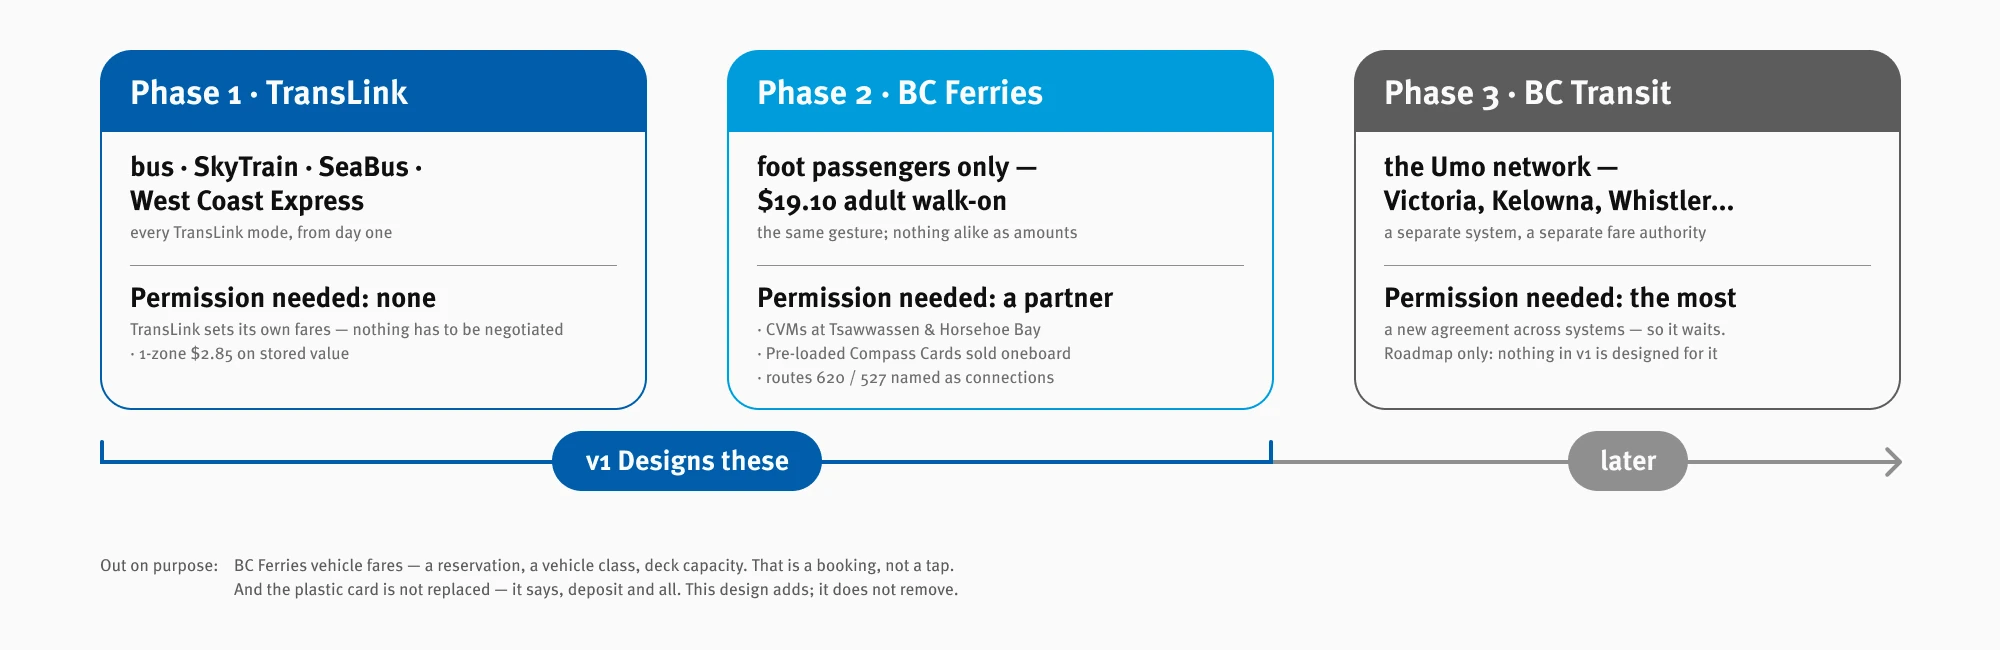
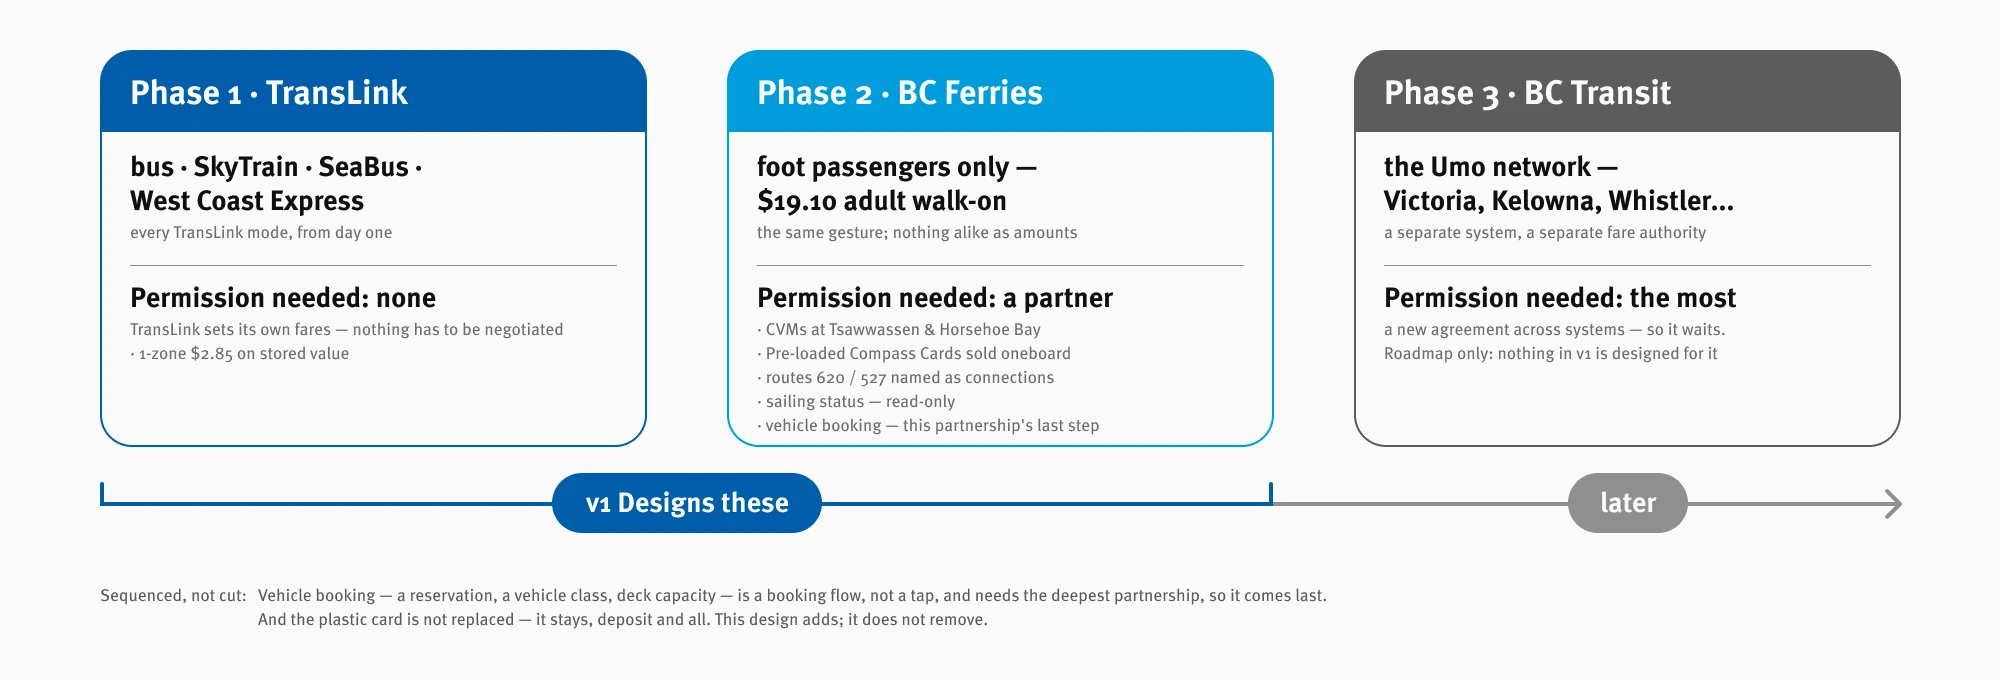
content: update the coverage and roadmap figure for the sequenced booking flow

diff --git a/site/src/components/CompassFigures.jsx b/site/src/components/CompassFigures.jsx
@@ -48,6 +48,6 @@ export const COMPASS_ARTWORK = {
   /* 04 Scope & Bets */
   "compass-fig-coverage-roadmap": art(
     coverageRoadmapImg,
-    "Three phases, ordered by how much permission each needs. Phase 1, TransLink — bus, SkyTrain, SeaBus and West Coast Express, every mode from day one; permission needed: none, because TransLink sets its own fares, a one-zone trip being $2.85 on stored value. Phase 2, BC Ferries — foot passengers only, a $19.10 adult walk-on, the same gesture at nothing like the same amount; permission needed: a partner, though the two already share retail, with vending machines at Tsawwassen and Horseshoe Bay, pre-loaded Compass Cards sold onboard, and TransLink routes named as connections. Phase 3, BC Transit's Umo network in Victoria, Kelowna and Whistler — a separate system and a separate fare authority; permission needed: the most, a new agreement across systems, so it waits: roadmap only, with nothing in v1 designed for it. v1 designs the first two. Out on purpose: BC Ferries vehicle fares, which carry a reservation, a vehicle class and deck capacity — a booking, not a tap — and the plastic card, which is not replaced; this design adds, it does not remove",
+    "Three phases, ordered by how much permission each needs. Phase 1, TransLink — bus, SkyTrain, SeaBus and West Coast Express, every mode from day one; permission needed: none, because TransLink sets its own fares, a one-zone trip being $2.85 on stored value. Phase 2, BC Ferries — foot passengers only, a $19.10 adult walk-on, the same gesture at nothing like the same amount; permission needed: a partner, though the two already share retail, with vending machines at Tsawwassen and Horseshoe Bay, pre-loaded Compass Cards sold onboard, and TransLink routes named as connections; in v1 the app also shows sailing status, read-only, with vehicle booking sequenced as this partnership's last step. Phase 3, BC Transit's Umo network in Victoria, Kelowna and Whistler — a separate system and a separate fare authority; permission needed: the most, a new agreement across systems, so it waits: roadmap only, with nothing in v1 designed for it. v1 designs the first two. Sequenced, not cut: vehicle booking — a reservation, a vehicle class, deck capacity — is a booking flow, not a tap, and needs the deepest partnership, so it comes last; and the plastic card is not replaced — it stays, deposit and all; this design adds, it does not remove",
   ),
 };
